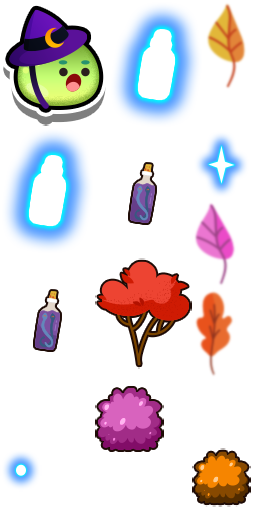
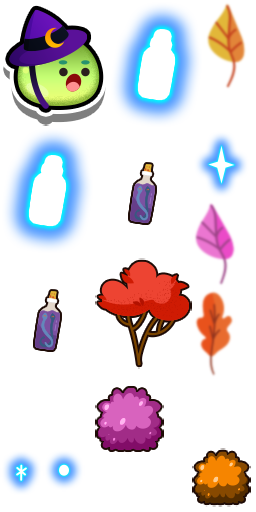
added particles and changes  on thext currrencyOffline

Changed region(s): [[0.1875, 0.875, 0.3125, 0.9688], [0.0312, 0.9062, 0.125, 0.9688]]

diff --git a/public/scripts/objRefTable.js b/public/scripts/objRefTable.js
@@ -50,6 +50,8 @@ self.C3_GetObjectRefTable = function () {
 		C3.Plugins.System.Exps.loopindex,
 		C3.Plugins.System.Exps.random,
 		C3.Plugins.System.Acts.CreateObject,
+		C3.Plugins.Particles.Acts.SetAngle,
+		C3.Plugins.Sprite.Acts.AddChild,
 		C3.Plugins.Sprite.Cnds.CompareInstanceVar,
 		C3.Plugins.System.Cnds.CompareVar,
 		C3.Plugins.System.Acts.SubVar,
@@ -127,6 +129,7 @@ self.C3_JsPropNameTable = [
 	{IsMoving: 0},
 	{Direction: 0},
 	{Character_especial: 0},
+	{Part_Star3: 0},
 	{Currency: 0},
 	{TapNumber: 0},
 	{Multiplier: 0},
@@ -191,5 +194,6 @@ self.InstanceType = {
 	Text_floatingClicks: class extends self.ITextInstance {},
 	Text_floatingLevel: class extends self.ITextInstance {},
 	shop_box: class extends self.IWorldInstance {},
-	Character_especial: class extends self.ISpriteInstance {}
+	Character_especial: class extends self.ISpriteInstance {},
+	Part_Star3: class extends self.IParticlesInstance {}
 }

diff --git a/public/scripts/c3runtime.js b/public/scripts/c3runtime.js
@@ -1366,7 +1366,7 @@ self.C3_ExpressionFuncs = [
 		p => {
 			const v0 = p._GetNode(0).GetVar();
 			const v1 = p._GetNode(1).GetVar();
-			return () => (and("You've earned", (v0.GetValue() * v1.GetValue())) + " coins while away!");
+			return () => (and("You've earned ", (v0.GetValue() * v1.GetValue())) + " coins while away!");
 		},
 		() => 2,
 		() => 9,
@@ -1456,6 +1456,7 @@ self.C3_ExpressionFuncs = [
 			const f1 = p._GetNode(1).GetBoundMethod();
 			return () => f0(((f1() / 2) - 50), 100);
 		},
+		() => 180,
 		p => {
 			const v0 = p._GetNode(0).GetVar();
 			return () => (v0.GetValue() * 0.2);
